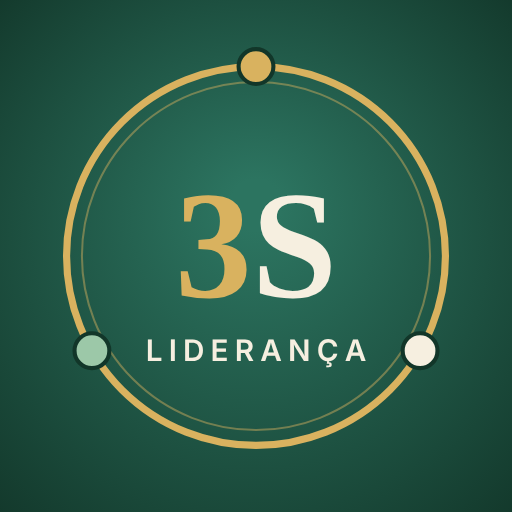
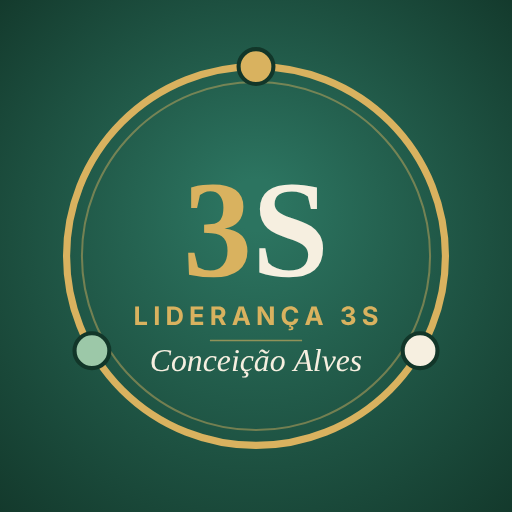
Logótipo: Liderança 3S · Conceição Alves
Claude-Session: https://claude.ai/code/session_019CNx53kTqB9cqJeSzSNycM

Changed region(s): [[0.25, 0.3438, 0.75, 0.75]]

diff --git a/index.html b/index.html
@@ -1858,7 +1858,7 @@ const MENU_GRUPOS = [
 let currentScreen = "dashboard";
 
 function entrarNaTelaInicial(){
-  try{ if(currentUser && currentUser.name) aplicarIconePessoal(currentUser.role === 'demo' ? 'Liderança' : currentUser.name); }catch(e){}
+  try{ if(currentUser && currentUser.name) aplicarIconePessoal(currentUser.role === 'demo' ? '' : currentUser.name); }catch(e){}
   if(currentUser && currentUser.role === 'colaborador'){
     selectMenu('minha-area', 'A Minha Área');
   } else {
@@ -16186,19 +16186,21 @@ function desenharLogo3S(cv, nome, maskable){
   // três pilares: Saber, Sentir, Ser
   [['#D9B25F', -90], ['#F6EFE0', 30], ['#9CC8A8', 150]].forEach(([cor, a]) => { const r = a * Math.PI / 180; g.fillStyle = cor; g.beginPath(); g.arc(c + R * Math.cos(r), c + R * Math.sin(r), S * 0.034, 0, Math.PI * 2); g.fill(); g.lineWidth = S * 0.008; g.strokeStyle = '#123629'; g.stroke(); });
   // monograma 3S
-  g.textAlign = 'center'; g.textBaseline = 'alphabetic';
-  g.font = `700 ${S * 0.30}px Georgia, 'Times New Roman', serif`;
-  const w3 = g.measureText('3').width, wS = g.measureText('S').width, x0 = c - (w3 + wS) / 2, yb = c + S * 0.08;
-  g.fillStyle = '#D9B25F'; g.textAlign = 'left'; g.fillText('3', x0, yb);
+  g.textAlign = 'left'; g.textBaseline = 'alphabetic';
+  g.font = `700 ${S * 0.27}px Georgia, 'Times New Roman', serif`;
+  const w3 = g.measureText('3').width, wS = g.measureText('S').width, x0 = c - (w3 + wS) / 2, yb = c + S * 0.04;
+  g.fillStyle = '#D9B25F'; g.fillText('3', x0, yb);
   g.fillStyle = '#F6EFE0'; g.fillText('S', x0 + w3, yb);
-  // nome por baixo
-  const t = String(nome || 'LIDERANÇA').toUpperCase();
-  let fs = S * 0.058; g.font = `600 ${fs}px system-ui, -apple-system, 'Segoe UI', Roboto, Arial, sans-serif`;
-  const esp = t.length > 9 ? S * 0.004 : S * 0.012;
-  const larg = () => [...t].reduce((a, ch) => a + g.measureText(ch).width + esp, -esp);
-  while(larg() > R * 1.45 && fs > S * 0.03){ fs -= S * 0.002; g.font = `600 ${fs}px system-ui, -apple-system, 'Segoe UI', Roboto, Arial, sans-serif`; }
-  let x = c - larg() / 2; g.fillStyle = '#F6EFE0';
-  [...t].forEach(ch => { g.fillText(ch, x, c + S * 0.205); x += g.measureText(ch).width + esp; });
+  // "LIDERANÇA 3S" espaçado
+  const esp = S * 0.010; g.font = `700 ${S * 0.05}px system-ui, -apple-system, 'Segoe UI', Roboto, Arial, sans-serif`;
+  const t1 = 'LIDERANÇA 3S'; const l1 = [...t1].reduce((a, ch) => a + g.measureText(ch).width + esp, -esp);
+  let x = c - l1 / 2; g.fillStyle = '#D9B25F'; [...t1].forEach(ch => { g.fillText(ch, x, c + S * 0.135); x += g.measureText(ch).width + esp; });
+  // linha fina e nome (assinatura)
+  g.strokeStyle = 'rgba(217,178,95,.6)'; g.lineWidth = S * 0.003; g.beginPath(); g.moveTo(c - S * 0.09, c + S * 0.165); g.lineTo(c + S * 0.09, c + S * 0.165); g.stroke();
+  const t2 = String(nome || 'Conceição Alves');
+  let fs = S * 0.062; g.font = `italic 400 ${fs}px Georgia, 'Times New Roman', serif`;
+  while(g.measureText(t2).width > R * 1.5 && fs > S * 0.035){ fs -= S * 0.002; g.font = `italic 400 ${fs}px Georgia, 'Times New Roman', serif`; }
+  g.textAlign = 'center'; g.fillStyle = '#F6EFE0'; g.fillText(t2, c, c + S * 0.225);
   g.restore();
   return cv;
 }
@@ -16207,13 +16209,13 @@ function logo3SDataURL(nome, tam, maskable){ const cv = document.createElement('
 function aplicarIconePessoal(nomeCompleto){
   try{
     const ps = String(nomeCompleto || '').trim().split(/\s+/); const primeiro = (/^(maria|ana|jos[eé]|jo[aã]o)$/i.test(ps[0] || '') && ps[1] && !/^(de|da|do|dos|das)$/i.test(ps[1])) ? ps[1] : (ps[0] || '');
-    const nome = primeiro ? primeiro : 'Liderança';
+    const ultimo = ps.length > 1 ? ps[ps.length - 1] : ''; const nome = primeiro ? (primeiro + (ultimo && ultimo !== primeiro ? ' ' + ultimo : '')) : 'Conceição Alves';
     const i512 = logo3SDataURL(nome, 512), i192 = logo3SDataURL(nome, 192), im = logo3SDataURL(nome, 512, true), i180 = logo3SDataURL(nome, 180);
     const set = (rel, href) => { let l = document.querySelector(`link[rel="${rel}"]`); if(!l){ l = document.createElement('link'); l.rel = rel; document.head.appendChild(l); } l.href = href; };
     set('icon', logo3SDataURL(nome, 64)); set('apple-touch-icon', i180);
-    let mt = document.querySelector('meta[name="apple-mobile-web-app-title"]'); if(!mt){ mt = document.createElement('meta'); mt.name = 'apple-mobile-web-app-title'; document.head.appendChild(mt); } mt.content = '3S ' + nome;
+    let mt = document.querySelector('meta[name="apple-mobile-web-app-title"]'); if(!mt){ mt = document.createElement('meta'); mt.name = 'apple-mobile-web-app-title'; document.head.appendChild(mt); } mt.content = 'Liderança 3S';
     const base = location.href.split('#')[0].split('?')[0].replace(/[^/]*$/, '');
-    const man = {name: 'Liderança 3S — ' + (primeiro || 'Gestor de Loja'), short_name: '3S ' + nome, start_url: base, scope: base, display: 'standalone', orientation: 'portrait', background_color: '#123629', theme_color: '#1C4B3E', lang: 'pt-PT',
+    const man = {name: 'Liderança 3S — ' + (primeiro || 'Gestor de Loja'), short_name: 'Liderança 3S', start_url: base, scope: base, display: 'standalone', orientation: 'portrait', background_color: '#123629', theme_color: '#1C4B3E', lang: 'pt-PT',
       icons: [{src: i192, sizes: '192x192', type: 'image/png', purpose: 'any'}, {src: i512, sizes: '512x512', type: 'image/png', purpose: 'any'}, {src: im, sizes: '512x512', type: 'image/png', purpose: 'maskable'}]};
     set('manifest', 'data:application/manifest+json;charset=utf-8,' + encodeURIComponent(JSON.stringify(man)));
   }catch(e){ console.warn('ícone pessoal', e); }
